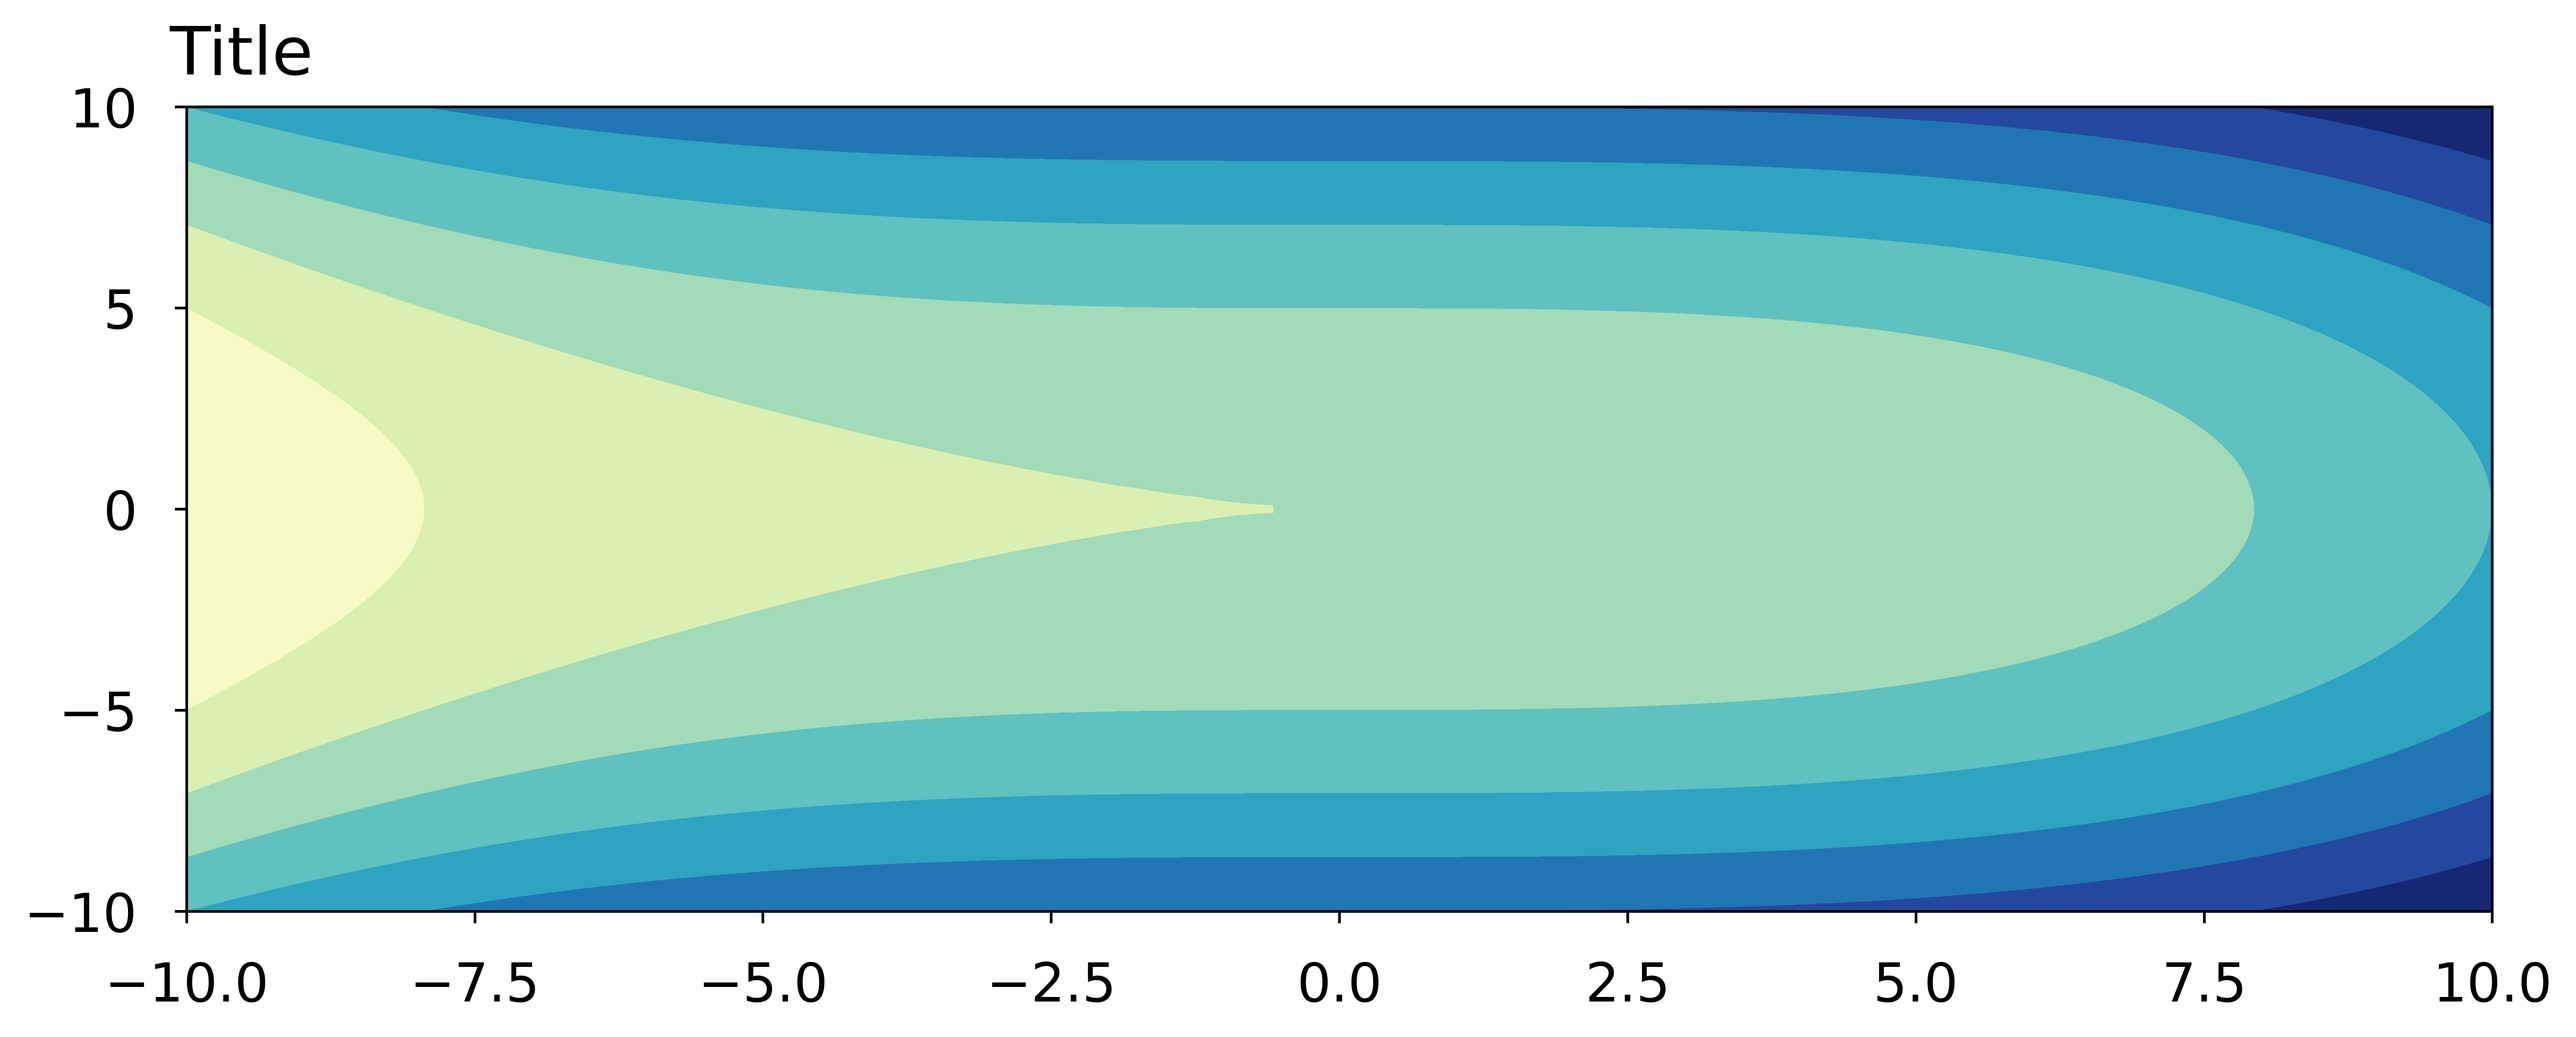
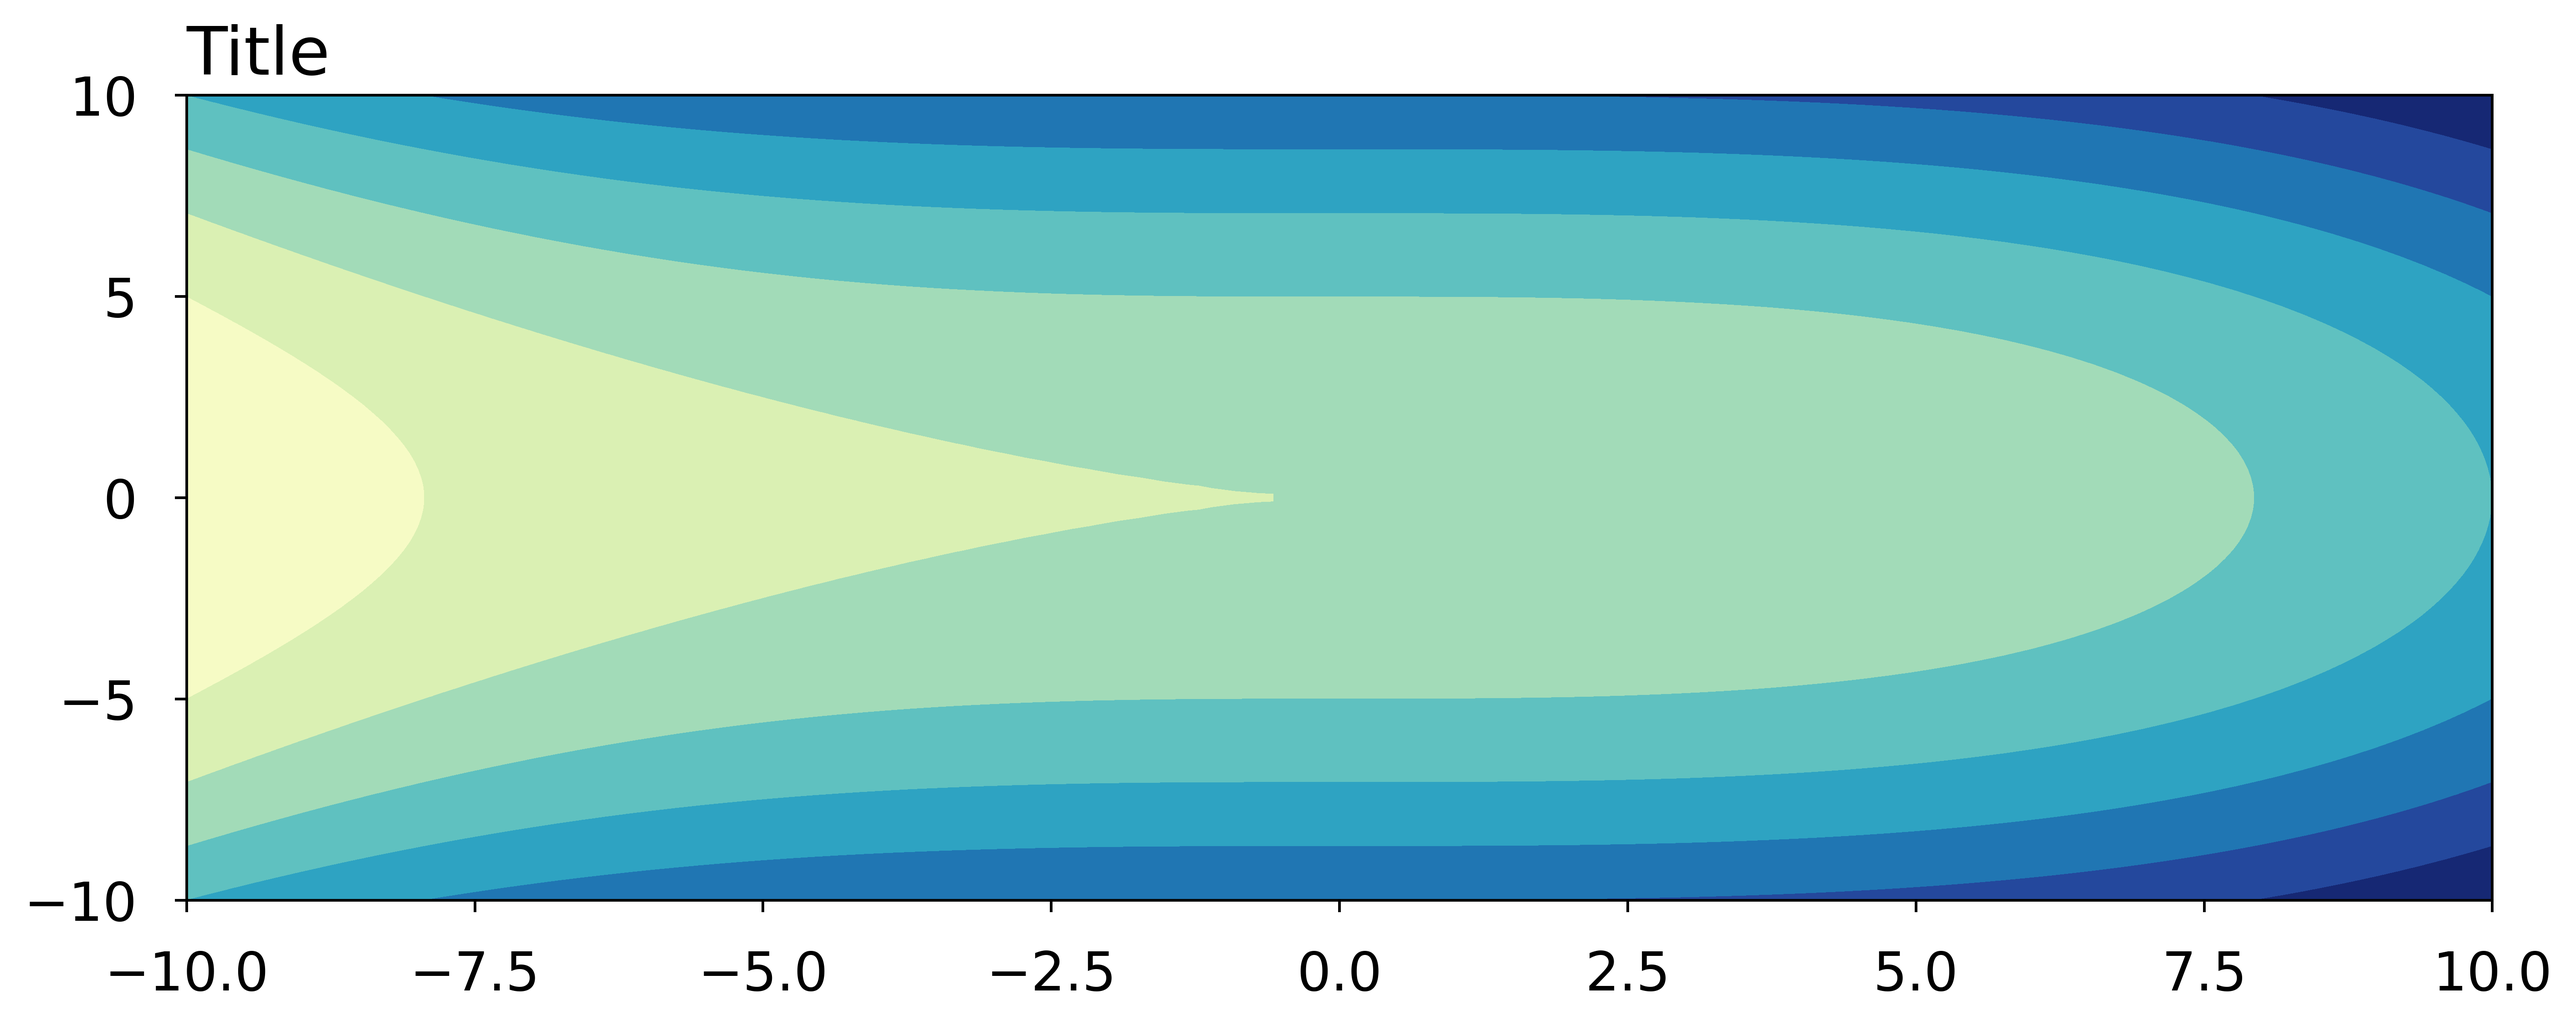
Add Markers interface.

diff --git a/plotify/plot.py b/plotify/plot.py
@@ -20,6 +20,7 @@ from time import time
 
 from .utils import usetex
 from .colors import MAUREENSTONE_COLORS, Vibrant, LIGHT_GRAY
+from .markers import Marker, MARKERS
 
 # high-definition images in IPython notebooks
 try:
@@ -38,7 +39,7 @@ MEM_IMG = BytesIO()
 
 
 FONT_SIZE = 20
-MARKERS = ['o', 'X', 'v', '*', 'd', 's', '*', 'p']
+# MARKERS = ['o', 'X', 'v', '*', 'd', 's', '*', 'p']
 PALETTE_NAME = MAUREENSTONE_COLORS
 COLORMAP_3D = 'YlGnBu'
 TEMP_FILENAME = os.path.join(gettempdir(), 'plotify')
@@ -310,6 +311,10 @@ class BasePlot:
         marker = kwargs.pop('marker', None)
         if marker is None:
             marker = next(self.markers)
+        if isinstance(marker, Marker):
+            kwargs.setdefault('markerfacecolor', marker.facecolor)
+            kwargs.setdefault('markeredgewidth', marker.edgewidth)
+            marker = marker.symbol
         elif marker is False:
             marker = None
         markevery = kwargs.pop('markevery', None)
@@ -390,6 +395,10 @@ class BasePlot:
         marker = kwargs.pop('marker', None)
         if marker is None:
             marker = next(self.markers)
+        if isinstance(marker, Marker):
+            kwargs.setdefault('markerfacecolor', marker.facecolor)
+            kwargs.setdefault('markeredgewidth', marker.edgewidth)
+            marker = marker.symbol
         elif marker is False:
             marker = None
         markevery = kwargs.pop('markevery', None)
@@ -584,6 +593,8 @@ class BasePlot:
         marker = kwargs.pop('marker', None)
         if marker is None:
             marker = next(self.markers)
+        if isinstance(marker, Marker):
+            marker = marker.symbol
         elif marker is False:
             marker = None
         self.axes.scatter(color=color, marker=marker, *args, **kwargs)
@@ -621,7 +632,7 @@ class BasePlot:
 
         ~~~python
         values = np.arange(100).reshape(10, 10)
-        plot = pl.Plot('Title')
+        plot = pl.Plot(height=3900.0, width=7200.0)
         plot.heatmap(
             heatvalues=values,
             xlabels=[str(x) for x in range(10)],

diff --git a/examples/modern_plot.py b/examples/modern_plot.py
@@ -3,7 +3,6 @@ import plotify as pl
 import numpy as np
 
 plot = pl.ModernPlot()
-plot.set_font('Open Sans')
 plot.set_palette('vibrant')
 plot.set_axis('Iterations', r'Values $(\times 1,000)$')
 plot.set_grid('horizontal', granularity='fine')
@@ -17,14 +16,26 @@ plot.set_subtitle(r'$\int f(x) dx$')
 
 # plot data
 num_points = 10
-plot.plot(np.arange(num_points), np.arange(num_points)**1 / 1000,
-          label=r'Linear', markerfacecolor='white', markeredgewidth=2.0)
-plot.plot(np.arange(num_points), np.arange(num_points)**2 / 1000,
-          label='Quadratic', markerfacecolor=None, markeredgewidth=1.0)
-plot.plot(np.arange(num_points), np.arange(num_points)**3 / 1000,
-          label='Cubic', markerfacecolor='white', markeredgewidth=2.0)
-plot.plot(np.arange(num_points), np.exp(np.arange(num_points)) / 1000,
-          label='Exponential', markerfacecolor=None, markeredgewidth=1.0)
+plot.plot(
+    np.arange(num_points),
+    np.arange(num_points)**1 / 1000,
+    label=r'Linear',
+)
+plot.plot(
+    np.arange(num_points),
+    np.arange(num_points)**2 / 1000,
+    label='Quadratic',
+)
+plot.plot(
+    np.arange(num_points),
+    np.arange(num_points)**3 / 1000,
+    label='Cubic',
+)
+plot.plot(
+    np.arange(num_points),
+    np.exp(np.arange(num_points)) / 1000,
+    label='Exponential',
+)
 
 plot.set_legend(title='Curve Type')
 

diff --git a/plotify/markers.py b/plotify/markers.py
@@ -1,0 +1,30 @@
+
+class Marker:
+
+    def __init__(self, symbol='o', facecolor=None, edgewidth=2.0):
+        self.symbol = symbol
+        self.facecolor = facecolor
+        self.edgewidth = edgewidth
+
+
+Circle = Marker(symbol='o', facecolor='white', edgewidth=2.0)
+Cross = Marker(symbol='X', facecolor=None, edgewidth=2.0)
+DownTriangle = Marker(symbol='v', facecolor='white', edgewidth=2.0)
+UpTriangle = Marker(symbol='^', facecolor='white', edgewidth=2.0)
+LeftTriangle = Marker(symbol='<', facecolor='white', edgewidth=2.0)
+RightTriangle = Marker(symbol='>', facecolor='white', edgewidth=2.0)
+Star = Marker(symbol='*', facecolor=None, edgewidth=2.0)
+Diamond = Marker(symbol='d', facecolor='white', edgewidth=2.0)
+Square = Marker(symbol='s', facecolor='white', edgewidth=2.0)
+Pentagone = Marker(symbol='p', facecolor='white', edgewidth=2.0)
+
+MARKERS = [
+    Circle,
+    Cross,
+    DownTriangle,
+    Star,
+    Diamond,
+    Square,
+    UpTriangle,
+    Pentagone,
+]

diff --git a/examples/api.py b/examples/api.py
@@ -33,7 +33,7 @@ if __name__ == "__main__":
 
     # heatmap
     values = np.arange(100).reshape(10, 10)
-    plot = pl.Plot('Title')
+    plot = pl.Plot(height=3900.0, width=7200.0)
     plot.heatmap(
         heatvalues=values,
         xlabels=[str(x) for x in range(10)],

diff --git a/plotify/__init__.py b/plotify/__init__.py
@@ -9,6 +9,7 @@ from .custom_plots import Plot, PublicationPlot, LowResPlot, ListContainer, Mode
 from . import utils
 from . import fonts
 from . import colors
+from . import markers
 from . import custom_plots
 from . import smoothing
 from . import wandb_plots

diff --git a/docs/api/markers.md b/docs/api/markers.md
@@ -1,0 +1,28 @@
+
+# Markers
+
+Plotify provides a generic way to define markers and some of their properties:
+
+::: plotify.markers.Marker
+
+From which a set of preconfigured markers is defined:
+
+::: plotify.markers.Circle
+
+::: plotify.markers.Cross
+
+::: plotify.markers.Diamond
+
+::: plotify.markers.DownTriangle
+
+::: plotify.markers.LeftTriangle
+
+::: plotify.markers.Pentagone
+
+::: plotify.markers.RightTriangle
+
+::: plotify.markers.Square
+
+::: plotify.markers.Star
+
+::: plotify.markers.UpTriangle
